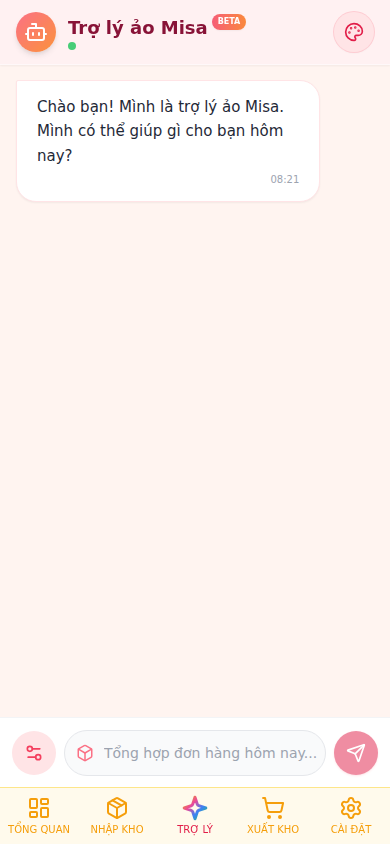
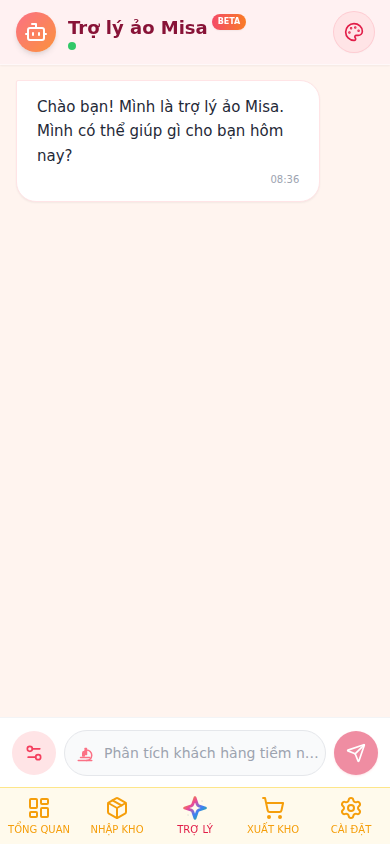
Refactor AI Assistant modes: Replace Lite with Deep
- Replaced 'LITE' (local/lite) mode with 'DEEP' (Deep Search & Analysis) mode.
- Created `DeepIcon.jsx` featuring a custom microscope SVG with a focusing animation to represent deep research.
- Updated `aiAssistantService.js` to map `DEEP` mode to high-capability models (`VITE_GEMINI_MODEL_3_FLASH`) and enable aggressive search logic (searching on queries > 5 chars).
- Updated `ModelSelector.jsx` and `ChatInput.jsx` to reflect the new mode branding (Violet theme) and icon.
- Deleted obsolete `LiteIcon.jsx`.

diff --git a/src/components/assistant/DeepIcon.jsx b/src/components/assistant/DeepIcon.jsx
@@ -12,7 +12,7 @@ const DeepIcon = ({ isActive, size = 24, strokeWidth = 2, loop = false }) => {
     ease: "easeInOut",
     times: [0, 0.5, 1],
     repeat: isActive && loop ? Infinity : 0,
-    repeatDelay: 1,
+    repeatDelay: 0.5,
   };
 
   const activeStroke = `url(#${gradientId})`;
@@ -26,10 +26,10 @@ const DeepIcon = ({ isActive, size = 24, strokeWidth = 2, loop = false }) => {
       viewBox="0 0 24 24"
       fill="none"
       stroke={isActive ? activeStroke : inactiveStroke}
-      strokeWidth={isActive ? 2.5 : strokeWidth}
+      strokeWidth={isActive ? 2.2 : strokeWidth}
       strokeLinecap="round"
       strokeLinejoin="round"
-      className="lucide lucide-box overflow-visible"
+      className="lucide lucide-microscope overflow-visible"
     >
       <defs>
         <linearGradient id={gradientId} x1="0%" y1="0%" x2="100%" y2="100%">
@@ -40,22 +40,27 @@ const DeepIcon = ({ isActive, size = 24, strokeWidth = 2, loop = false }) => {
         </linearGradient>
       </defs>
 
+      {/* Base */}
+      <path d="M6 18h12" />
+      <path d="M3 22h18" />
+
+      {/* Arm - Static */}
+      <path d="M14 22a7 7 0 1 0 0-14h-1" />
+
+      {/* Tube / Lens - Animating (Focusing up and down) */}
       <motion.g
         animate={
           isActive
             ? {
-                scale: [1, 1.15, 1], // Pulse effect for "Deep Thinking"
-                rotate: [0, 5, -5, 0], // Subtle shake/thinking
+                y: [0, -1.5, 0], // Moving up and down like focusing
               }
-            : { scale: 1, rotate: 0 }
+            : { y: 0 }
         }
         transition={transition}
-        style={{ transformOrigin: "12px 12px" }}
       >
-        {/* Box/Cube Shape - Representing Deep/Structure */}
-        <path d="M21 16V8a2 2 0 0 0-1-1.73l-7-4a2 2 0 0 0-2 0l-7 4A2 2 0 0 0 3 8v8a2 2 0 0 0 1 1.73l7 4a2 2 0 0 0 2 0l7-4A2 2 0 0 0 21 16z" />
-        <path d="M3.27 6.96 12 12.01l8.73-5.05" />
-        <path d="M12 22.08V12" />
+        <path d="M9 14h2" /> {/* Stage/Slide holder */}
+        <path d="M9 12a2 2 0 0 1 2-2v6h-2z" /> {/* Objective Lens */}
+        <path d="M12 6a2 2 0 0 1 2 2v6h-2V8a2 2 0 0 1 2-2z" /> {/* Main Tube */}
       </motion.g>
     </svg>
   );
